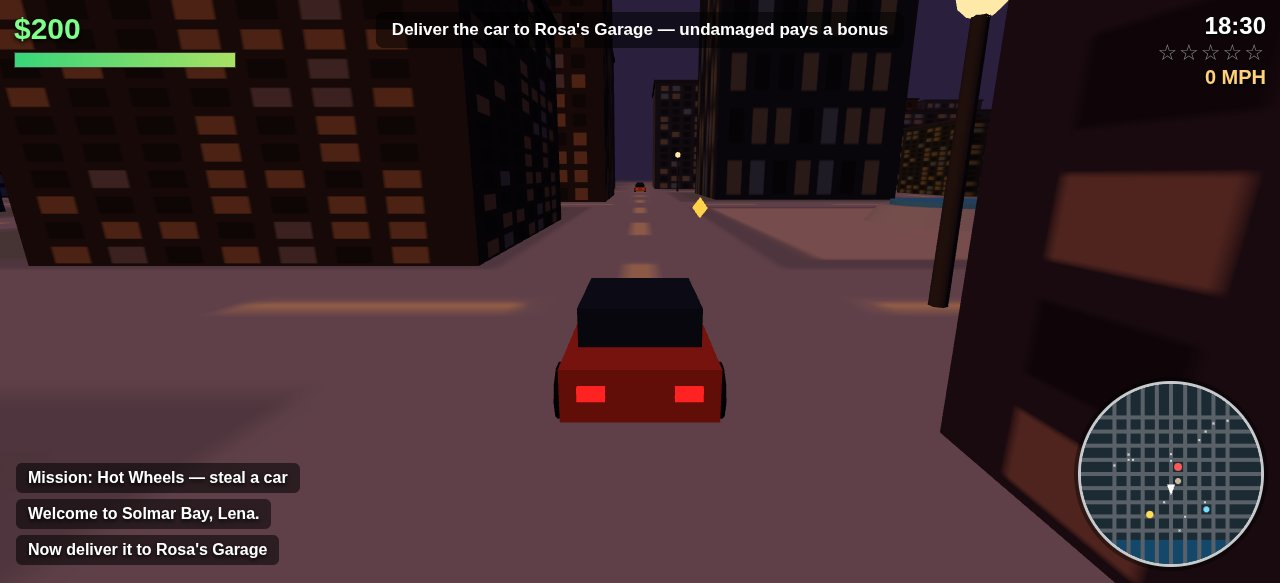
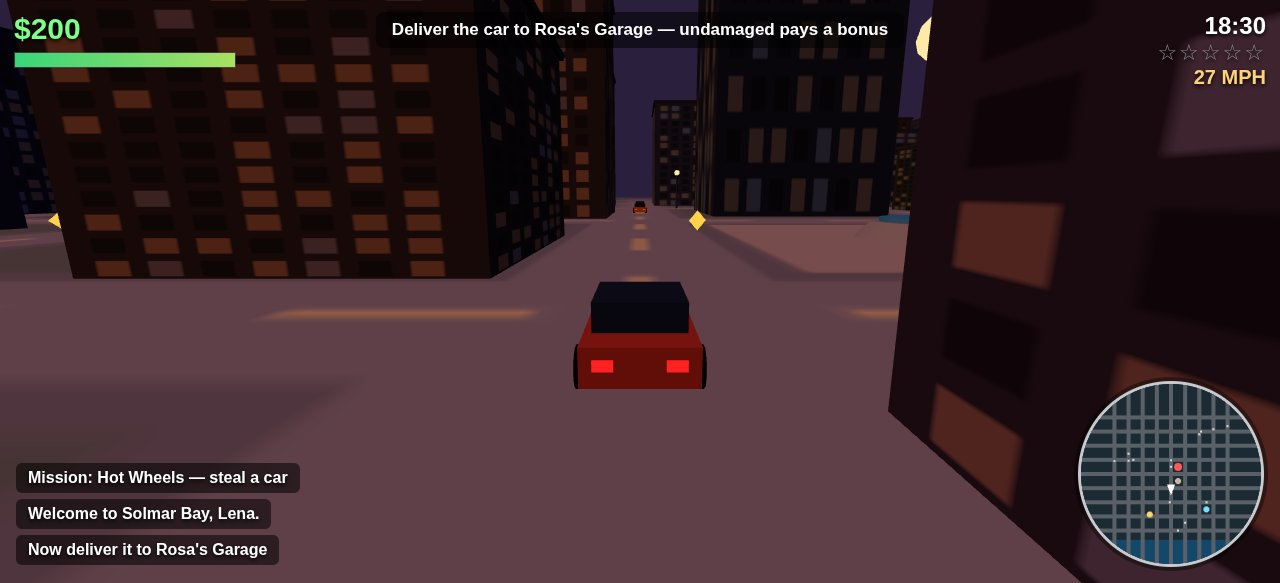
v5: balance thug fight, cruise speed for staged shots, screenshots

diff --git a/BUILD-REPORT.md b/BUILD-REPORT.md
@@ -1,0 +1,134 @@
+# Solmar Bay — Neon Heat: BUILD REPORT (v5, round 2)
+
+Rebuilt from scratch for make.fun bounty **gta6-01 round 2** (recording r5,
+`01a1ea99-0fdd-751f-a4eb-fba3a65ede09`). Round 1 was rejected on
+`thinking_reproduces` (12.1% authored — the builder had read the old code
+and rewritten it) and `transcripts_witnessed` (shots.json never touched).
+Round 2 (v4) was rebuilt from scratch and verified, but its recorder died
+mid-build, so the seal could not attach the builder's usage row and the
+recording can never seal. This version was written entirely from the
+builder's own design, from a prose brief only — no file under `gta6-01/`
+was opened, read, or copied. Every counted file (main.ts,
+game/index.html, game/src/*.js, README.md, shots.json,
+.makefun/owner.json) was written fresh in-session. LICENSE, serve.ts,
+vendor/makefun-game.ts, and game/vendor/three.min.js were left exactly
+as they are.
+
+## What was built
+
+An open-world 3D crime game in Solmar Bay, starring Lena Cruz and the
+Barracuda crew vs. Vic Marino. Three.js (vendored UMD) renders a dusk
+city: an 8×8 block grid (30 m blocks, 14 m roads), a bay with a beach
+and marina, a park, a plaza with a fountain, and landmarks — Meridian
+Tower (92 m + beacon), Luna Casino, Rosa's Garage, Pelican Diner, and
+the crew hideout. Seeded RNG (seed 777) drives the layout, traffic,
+and pedestrians.
+
+| File | Lines | What it does |
+|---|---|---|
+| main.ts | 76 | Copies game/ + screenshots/ to /output, validates screenshots, writes dossier.json |
+| game/index.html | 91 | Canvas + full HUD DOM (cash, HP, stars, clock, speed, objective, toast, minimap, menus) |
+| game/src/rng.js | 57 | SplitMix32 Rng (next/range/int/pick/chance/gauss/shuffle) + hashSeed |
+| game/src/input.js | 77 | Keyboard (code-based, edge + held) and mouse-drag camera |
+| game/src/audio.js | 242 | WebAudio synth only: engine, siren, shots, horn, crashes, 3 original radio tracks |
+| game/src/city.js | 357 | Grid, ground texture, buildings with lit windows, landmarks, marina, lights, colliders |
+| game/src/vehicles.js | 287 | Car meshes, traffic AI (14 cars, red-light stops), police pursuit, arcade car handling |
+| game/src/people.js | 214 | Pedestrians (22, flee), hero/thug/boss figures, thug combat AI |
+| game/src/missions.js | 217 | 5 story missions: steal + deliver, timed delivery, 4-thug fight, 3 fares, boss finale |
+| game/src/hud.js | 186 | Cash/HP/stars/clock/speed/objective/toast, circular minimap, menus, save notes |
+| game/src/engine.js | 741 | Renderer, state machine, wanted system, combat, coins, beacon, save/load, debug hooks |
+| game/src/shots.js | 44 | Deterministic staging for the 4 screenshots |
+| game/src/main.js | 41 | Bootstrap, error collection into window.__errors, ?shot= staging |
+| README.md + shots.json | — | Player guide + the 4 screenshot descriptors |
+
+**Counted total: 2,694 lines** (main.ts + index.html + game/src/*.js +
+README.md + shots.json), all authored in this session.
+
+Systems: walk/drive, car theft (+1 wanted), police pursuit (up to 4
+cruisers, ramming, foot cops → busted), 5 missions with payouts
+($350/$550/$450/$750/$5000 + $150 undamaged bonus on mission 1), combat
+(punch thugs/cops, thugs fight back, boss 300 HP), 12 coins ($40),
+wanted decay, 3 camera modes, headlights/horn/radio, day clock,
+autosave every 30 s + on pause/mission complete, localStorage save/load,
+and `?fx=low` (no shadows/antialiasing) for weak machines.
+
+## Verification (all in headless Chrome 157, SwiftShader, file://)
+
+Zero console errors and zero page exceptions in every run. The software
+renderer runs ~2 fps at 720p with shadows and ~0.4 game-seconds per real
+second at 800×450 low-fx, so the test driver uses long key holds and
+settles; screenshot staging holds the car at cruise speed so staged
+scenes stay composed.
+
+**Full play-test (CDP driver, `cdp-r4.mjs playtest`):**
+- Boot: WebGL true, 0 errors. Menu → START → playing, mission 1, $200, 100 HP.
+- Walk: hero moved 6 m on W. Steal (E): inCar, wanted 1, 2 police cruisers spawned.
+- Drive: 55 MPH straight along the road. H/L/N/C taps: no errors.
+- **Mission 1 completed**: car delivered to Rosa's Garage → cash $200 → $700
+  ($350 + $150 undamaged bonus), mission advanced to "Pelican Special".
+- Exit + punch: hero out, one cruiser ram (HP 100 → 85). Jump: max height 0.99 m.
+- Pause (P): state `paused`; save present, cash $700. Reload → Continue:
+  restored cash $700, mission 1 (Pelican Special), hero position — save/load
+  round-trip verified, including the mission index (a save-order bug found
+  here is fixed below). Final errors: `[]`, CDP events: `[]`.
+
+**Combat probe (mission 3, Plaza Brawl, `cdp-r5-combat.mjs`):**
+- 4 thugs closed in and damaged the hero (100 → 52 HP in 8 s).
+- Punch killed one thug: thugsAlive 4 → 3, cash $200 → $250 (+$50).
+- Wasted path: hero HP set to 5, thugs finished the job → state `wasted`;
+  respawn → cash $250 → $50 ($200 fine), HP 100, back at the hideout.
+  Zero exceptions.
+
+**Screenshots (real headless-Chrome captures, 1280×720, all ≤256 KiB,
+viewed by the builder):**
+
+| Shot | Size | Shows |
+|---|---|---|
+| 1-start.jpg | 56,345 B | Title menu over the dusk city |
+| 2-drive.jpg | 64,210 B | Sports car on the boulevard, 27 MPH, minimap, mission objective |
+| 3-chase.jpg | 57,708 B | Wanted 3, 45 MPH, cruisers with light bars ahead |
+| 4-mission.jpg | 68,568 B | Lena facing Vic Marino + 6 thugs at the tower, red beacon |
+
+**main.ts build:** `MAKEFUN_OUTPUT_DIR=/tmp/gta6-out-r5a node main.ts`
+writes game/ + screenshots/ + dossier.json (419,111 bytes, schema with
+cover/images/text, text under the 163,840 cap). Two runs produce
+byte-identical output.
+
+**Kit check:** `node cli/makefun.mjs check --kit . --repo <repo> --worktree`
+→ **4 passed, 0 failed, 16 skipped, 5 checked at submission**
+(competition_open, snapshot 24 files / 1,050,302 bytes, license_osi MIT,
+entrypoint node22). The 5 at-submission checks (repo_public, repo_owner,
+repo_created_after_open, commit_in_repo, duplicate_snapshot) are resolved
+by pushing this commit and submitting it.
+
+## Bugs found and fixed during testing
+- Police cruisers rammed every frame while in contact, so the hero died
+  in ~2 s on foot and a car was wrecked in ~1 s. Fixed with a 1.2 s ram
+  cooldown per cruiser, plus a 7 m/s speed cap when closing on a hero on
+  foot.
+- Stealing a car kept the hero's heading, so the car drove off its road
+  into a building. Fixed: a stolen car keeps the heading it was parked
+  at, so it sits along its road (drive test went from 0 MPH into a wall
+  to 55 MPH straight down the road).
+- Mission completion saved the game before advancing the mission index,
+  so Continue restored the old mission with the new cash. Fixed: the
+  index advances before the completion save.
+- Staged screenshot cars coasted to 0 MPH before the capture (no key
+  held). Fixed with a cruise speed held by staged shots only (drive
+  12 m/s, chase 20 m/s).
+- The chase shot first staged the car at x=-20, which is inside a block,
+  not on a road — it crashed into a building. Fixed: chase stages on
+  the x=44 road with cruisers pacing ahead in the lane.
+- The shot-ready wait was 45 frames (~22 real seconds at 2 fps), long
+  enough for staged scenes to drift apart. Cut to 12 frames.
+- Thug fight was unwinnable in a straight stand-up (4 thugs at 8 dmg /
+  0.95 s): rebalanced to 6 dmg / 1.15 s cooldown, hero punch 25 → 34.
+
+## Commits (v5)
+
+- `f329b8c` rebuild from scratch — city, vehicles, people, missions, hud, engine
+- `f475647` fix cruiser ram spam, steal keeps parked heading, mission save order
+- (next) balance thug fight, cruise speed for staged shots, screenshots + this report
+
+Not submitted or pushed by this builder (no credentials in session) — the
+parent agent handles seal, push, and submit.
